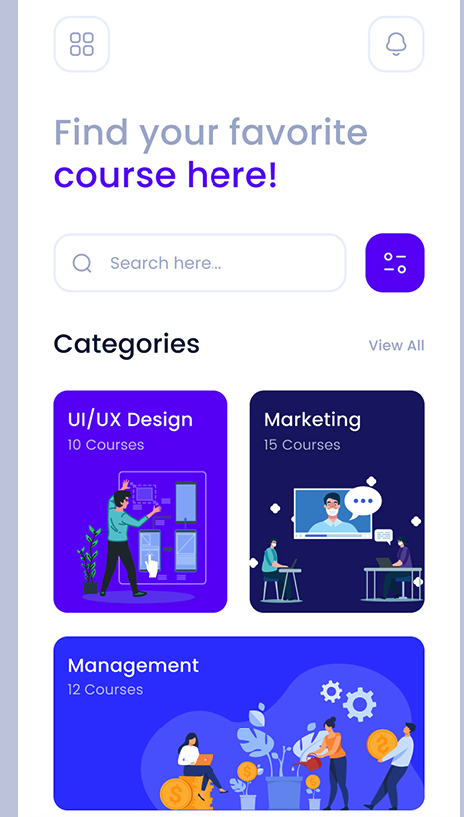
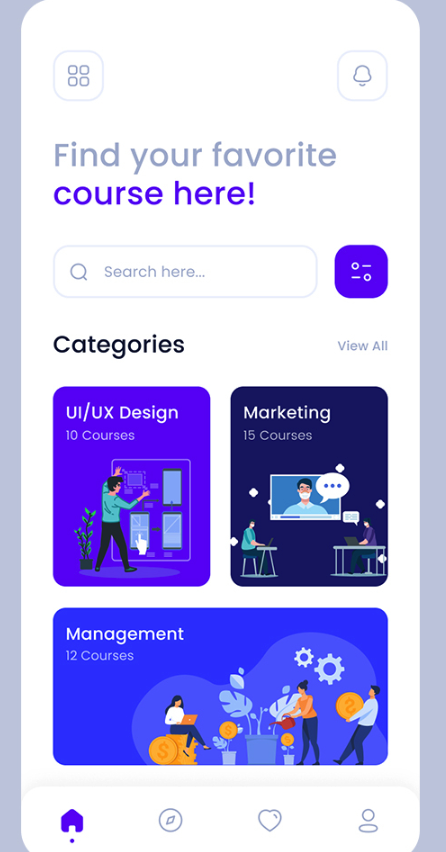
avance screen app1

diff --git a/lib/screens/home_screen.dart b/lib/screens/home_screen.dart
@@ -6,44 +6,42 @@ class HomeScreen extends StatelessWidget {
 
   @override
   Widget build(BuildContext context) {
-    return SafeArea(
-      child: Scaffold(
-        appBar: AppBar(
-          title: const Text('Retos Desing Apps'),
-        ),
-        body: Column(
-          children: [
-            const Padding(
-              padding: EdgeInsets.fromLTRB(10, 40, 10, 20),
-              child: Center(
-                child: Text('Retos de Aplicaciones'),
-              ),
+    return Scaffold(
+      appBar: AppBar(
+        title: const Text('Retos Desing Apps'),
+      ),
+      body: Column(
+        children: [
+          const Padding(
+            padding: EdgeInsets.fromLTRB(10, 40, 10, 20),
+            child: Center(
+              child: Text('Retos de Aplicaciones'),
             ),
-            const SizedBox(
-              height: 30,
-            ),
-            ElevatedButton(
-              onPressed: () {
-                context.push('/app1');
-              },
-              child: const Text('Ir App 1'),
-            ),
-            const SizedBox(
-              height: 30,
-            ),
-            ElevatedButton(
-              onPressed: () {},
-              child: const Text('Ir App 2'),
-            ),
-            const SizedBox(
-              height: 30,
-            ),
-            ElevatedButton(
-              onPressed: () {},
-              child: const Text('Ir App 3'),
-            )
-          ],
-        ),
+          ),
+          const SizedBox(
+            height: 30,
+          ),
+          ElevatedButton(
+            onPressed: () {
+              context.push('/app1');
+            },
+            child: const Text('Ir App 1'),
+          ),
+          const SizedBox(
+            height: 30,
+          ),
+          ElevatedButton(
+            onPressed: () {},
+            child: const Text('Ir App 2'),
+          ),
+          const SizedBox(
+            height: 30,
+          ),
+          ElevatedButton(
+            onPressed: () {},
+            child: const Text('Ir App 3'),
+          )
+        ],
       ),
     );
   }

diff --git a/lib/config/theme/app_theme.dart b/lib/config/theme/app_theme.dart
@@ -74,7 +74,7 @@ class AppThemeApp1 {
                 fontWeight: FontWeight.bold,
                 color: AppColors.app1BrandPrimaryColor),
             headlineLarge: TextStyle(
-                fontSize: 33,
+                fontSize: 27,
                 fontWeight: FontWeight.w600,
                 color: AppColors.app1BrandHeadLargeColor)),
       );

diff --git a/lib/screens/app1_screen.dart b/lib/screens/app1_screen.dart
@@ -40,7 +40,7 @@ class _HomeView extends StatelessWidget {
             const Text(
               'course Here!',
               style: TextStyle(
-                  fontSize: 33,
+                  fontSize: 29,
                   fontWeight: FontWeight.w600,
                   color: Color.fromRGBO(95, 50, 245, 1)),
             )
